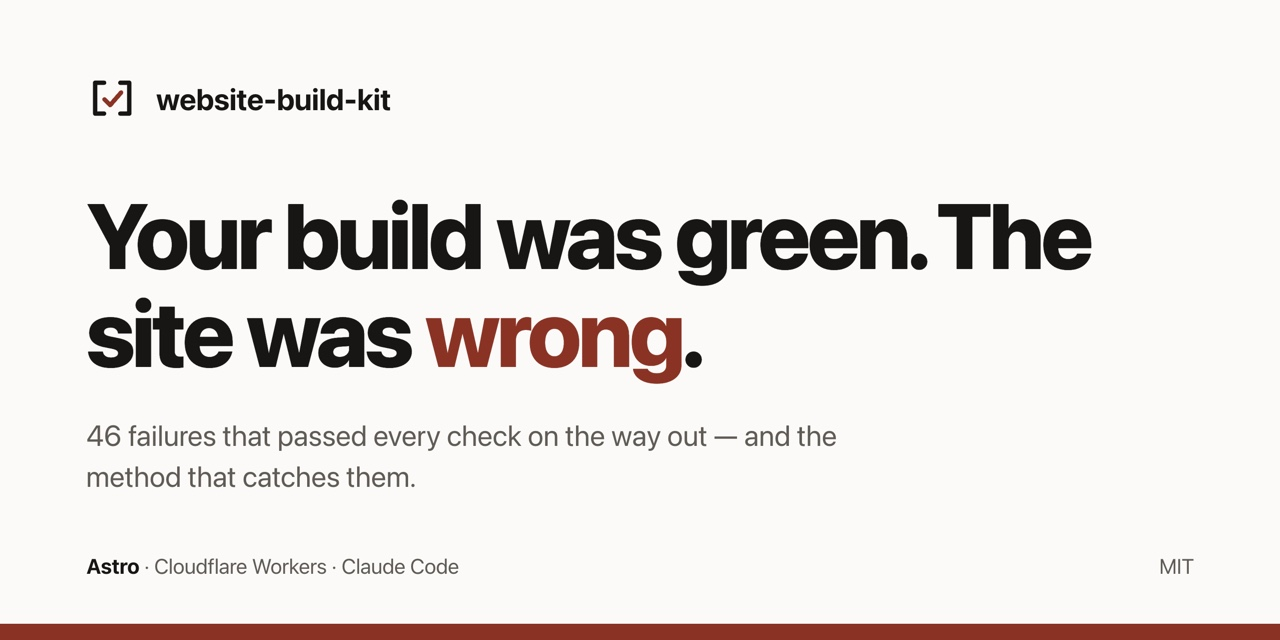
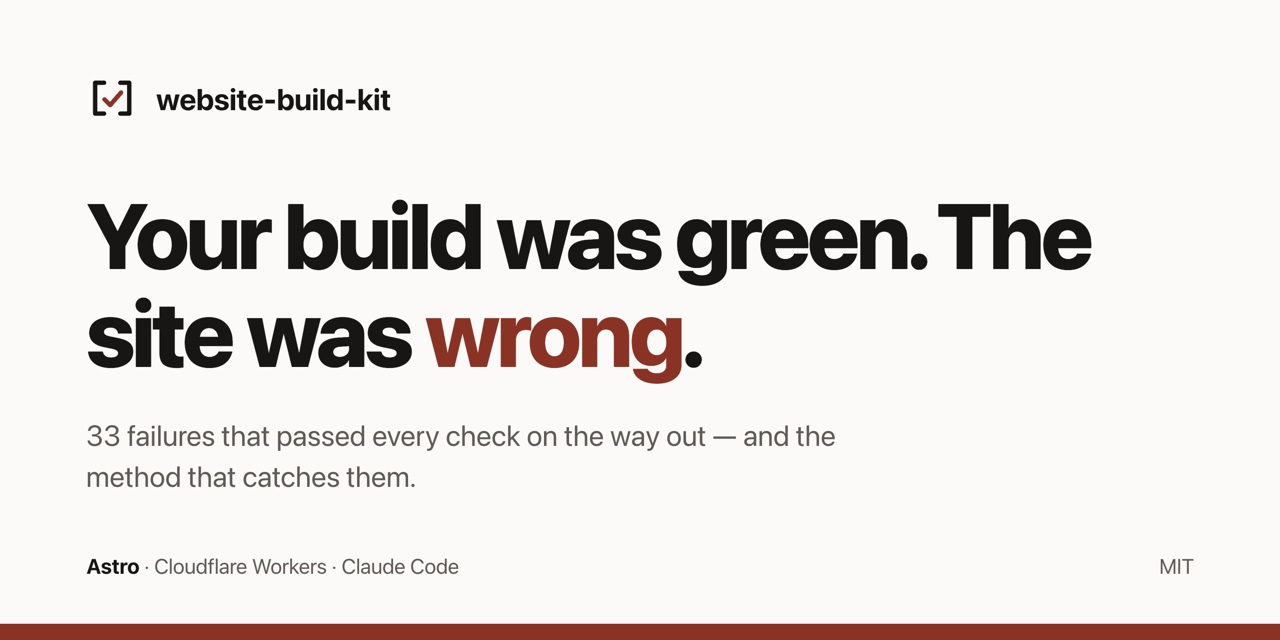
Count the failures, then make the number un-drift-able
The landing page, its meta description, og:description,
twitter:description, JSON-LD, both share cards and the repository
description all claimed 46 documented silent failures.

⚠ THAT NUMBER CANNOT BE REPRODUCED FROM ANYTHING. At the commit that
introduced it the plausible sources gave 30 (traps.md + compliance.md
§8), 35, 49 and 57 — never 46. It was written by hand, never computed,
and every trap added since made it drift further.

NOTHING GOES STALE AS QUIETLY AS A NUMBER. It stays plausible forever,
it is quoted back by anyone who reads it, and no reader can tell.

The count is now defined and checked by audit:docs:

  traps.md ### entries        25   the file whose bar IS "failed silently"
  compliance.md §8 entries     8   CLAUDE.md: §8 takes entries on trap terms
                              ──
                              33

build.md §6 is deliberately excluded — it restates the same failures in
framework-neutral language, so counting it would count most of them
twice. compliance.md §5 is excluded too: those criteria fail LOUDLY and
get fixed, and §5 says so itself.

Verified both ways: prose claiming 34 against 33 files fails, and adding
a trap so the files hold 34 against prose claiming 33 also fails.

npm run cards:brand regenerates both share cards — 1200×630 for
og:image, 1280×640 for GitHub's social preview. Laid out separately
rather than one scaled from the other: the aspect ratios differ and
[…]

Changed region(s): [[0.0625, 0.6562, 0.5625, 0.7188], [0.5938, 0.6562, 0.6562, 0.7188]]

diff --git a/site/index.html b/site/index.html
@@ -4,7 +4,7 @@
 <meta charset="utf-8">
 <meta name="viewport" content="width=device-width,initial-scale=1">
 <title>Website Build Kit — Astro + Cloudflare marketing sites</title>
-<meta name="description" content="Build production marketing sites on Astro and Cloudflare Workers: a WordPress migration playbook, a Claude Code skill, and 46 failures documented from real rebuilds.">
+<meta name="description" content="Build production marketing sites on Astro and Cloudflare Workers: a WordPress migration playbook, a Claude Code skill, and 33 failures documented from real rebuilds.">
 <link rel="canonical" href="https://nurkamol.github.io/website-build-kit/">
 <meta name="author" content="Nurkamol Vakhidov">
 <meta name="theme-color" content="#fbfaf8" media="(prefers-color-scheme: light)">
@@ -13,7 +13,7 @@
 <meta property="og:type" content="website">
 <meta property="og:site_name" content="Website Build Kit">
 <meta property="og:title" content="Your build was green. The site was wrong.">
-<meta property="og:description" content="46 failures that passed every check on the way out — and the method that catches them. Astro on Cloudflare Workers, with a WordPress migration playbook.">
+<meta property="og:description" content="33 failures that passed every check on the way out — and the method that catches them. Astro on Cloudflare Workers, with a WordPress migration playbook.">
 <meta property="og:url" content="https://nurkamol.github.io/website-build-kit/">
 <!-- JPEG, not WebP or SVG: Facebook and LinkedIn still fail to render a WebP
      og:image and no scraper accepts SVG, so a shared post unfurls with no
@@ -24,7 +24,7 @@
 <meta property="og:image:alt" content="Website Build Kit — your build was green, the site was wrong.">
 <meta name="twitter:card" content="summary_large_image">
 <meta name="twitter:title" content="Your build was green. The site was wrong.">
-<meta name="twitter:description" content="46 failures that passed every check on the way out — and the method that catches them.">
+<meta name="twitter:description" content="33 failures that passed every check on the way out — and the method that catches them.">
 <meta name="twitter:image" content="https://nurkamol.github.io/website-build-kit/brand/og.jpg">
 
 <link rel="icon" href="brand/mark.svg" type="image/svg+xml">
@@ -36,7 +36,7 @@
   "@context": "https://schema.org",
   "@type": "SoftwareSourceCode",
   "name": "Website Build Kit",
-  "description": "A method and starter for building production marketing sites on Astro and Cloudflare Workers, with a WordPress migration playbook and 46 documented silent failures.",
+  "description": "A method and starter for building production marketing sites on Astro and Cloudflare Workers, with a WordPress migration playbook and 33 documented silent failures.",
   "codeRepository": "https://github.com/nurkamol/website-build-kit",
   "url": "https://nurkamol.github.io/website-build-kit/",
   "programmingLanguage": ["JavaScript", "TypeScript", "Astro"],
@@ -273,7 +273,7 @@
   <p class="eyebrow">Astro · Cloudflare Workers · Claude Code</p>
   <h1>Your build was green. The site was <em>wrong</em>.</h1>
   <p class="lede">
-    A method for shipping production marketing sites — and a catalogue of 46 failures that
+    A method for shipping production marketing sites — and a catalogue of 33 failures that
     passed every check on the way out. Clean build, clean types, clean deploy, wrong result.
   </p>
   <div class="cta">

diff --git a/CHANGELOG.md b/CHANGELOG.md
@@ -1,5 +1,44 @@
 # Changelog
 
+## 2026-08-28b — the number was never counted
+
+The landing page, its meta description, its `og:description`, its `twitter:description`, its
+JSON-LD, both share cards and the repository description all claimed **46** documented silent
+failures.
+
+⚠ **THAT NUMBER CANNOT BE REPRODUCED FROM ANYTHING.** At the commit that introduced it, the
+plausible sources gave 30 (`traps.md` + `compliance.md` §8), 35, 49 and 57 — never 46. It was
+written by hand, never computed, and every trap added since made it drift further.
+
+**Nothing goes stale as quietly as a number.** It stays plausible forever, it gets quoted back by
+anyone who reads it, and no reader can tell.
+
+**The count is now defined, and checked.** `audit:docs` fails when prose disagrees with the files:
+
+```
+traps.md ### entries          25   the file whose bar IS "it failed silently"
+compliance.md §8 entries       8   CLAUDE.md: §8 takes entries on trap terms
+                              ──
+                              33
+```
+
+`build.md` §6 is deliberately excluded — it restates the same failures in framework-neutral
+language ("enforced trailing slashes break form POSTs" *is* traps.md's "`trailingSlash: 'always'`
+breaks form POSTs"), so counting it would count most of them twice. `compliance.md` §5 is excluded
+too: those criteria fail **loudly** and get fixed, and §5 says so itself.
+
+Verified in both directions — prose claiming 34 against 33 files fails, and adding one trap so the
+files hold 34 against prose claiming 33 also fails.
+
+**`npm run cards:brand`** regenerates both share cards — 1200×630 for `og:image`, 1280×640 for
+GitHub's social preview. They are laid out separately rather than one scaled from the other: the
+aspect ratios differ, and scaling either letterboxes or crops the accent bar, which is the only
+element still legible at thumbnail size. The script reads the count from the same two files the
+audit reads, so the cards cannot disagree with the documentation.
+
+⚠ **GitHub's social preview has no API** — no `gh` flag, not on the repository object. The script
+writes the file and says so; uploading is Settings → General → Social preview, by hand.
+
 ## 2026-08-28 — the tells of a generated site
 
 `design.md` §3 caught the 2015 agency template: three equal cards, body text at container width,

diff --git a/CLAUDE.md b/CLAUDE.md
@@ -226,6 +226,25 @@ To publish by hand instead, the tree must be clean: `prepack` copies `template/`
 
 ## After changing the landing page
 
+```bash
+npm run audit:docs      # includes the failure count claimed on the page
+npm run cards:brand     # regenerate both share cards if that count moved
+```
+
+**The number in the headline is not decorative.** `site/index.html` claims a count of documented
+silent failures in five places — meta description, `og:description`, `twitter:description`, the
+JSON-LD and the body — and both share cards bake it into pixels. It is defined as **`traps.md`
+entries + `compliance.md` §8 entries**, `audit:docs` fails when the prose disagrees, and
+`cards:brand` reads the same two files rather than restating the number.
+
+That definition exists because the previous number, 46, could not be reproduced from anything:
+the plausible sources gave 30, 35, 49 and 57 at the commit that introduced it. Nothing goes stale
+as quietly as a number — it stays plausible forever and no reader can tell.
+
+⚠ **GitHub's social preview has no API.** `cards:brand` writes the file; uploading it is
+Settings → General → Social preview, by hand.
+
+
 `site/` is hand-written, self-contained HTML, and **not** built with the template. The template
 targets Cloudflare Workers — KV bindings, `_headers`, `_redirects`, an SSR adapter — none of
 which GitHub Pages serves, so dogfooding it there would mean fighting the adapter to publish one
